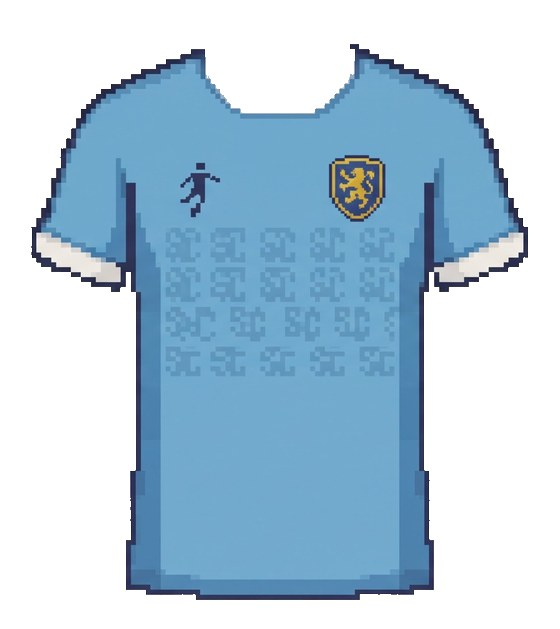
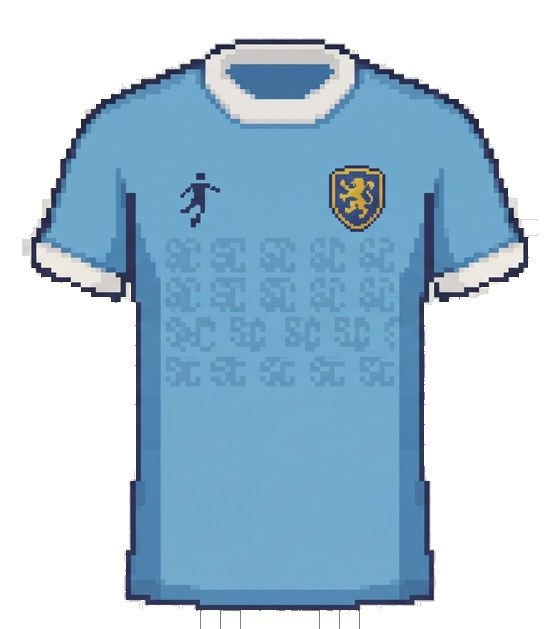
Sklep: bez różowej koszulki, Sky Lions z kołnierzem
Claude-Session: https://claude.ai/code/session_01Y9XNosS9qXxorLv9Jh2D4n

diff --git a/index.html b/index.html
@@ -718,7 +718,7 @@
 <div id="jshop" hidden><div class="side90 l dark"></div><div class="side90 r dark"></div><div class="jbox">
   <div class="jtop"><b class="jtitle">SKLEP · KOSZULKI</b><span class="coin" id="coinJ">0</span><button class="x" id="jx" aria-label="Zamknij">X</button></div>
   <div class="jstage"><button class="jarrow l" id="jprev" aria-label="Poprzednia"></button><img id="jimg" alt="Koszulka"><button class="jarrow r" id="jnext" aria-label="Następna"></button></div>
-  <div class="jbar"><span class="jnum" id="jnum">1/38</span><b class="jname" id="jname"></b><button class="jbuy" id="jbuy">KUP</button></div></div></div>
+  <div class="jbar"><span class="jnum" id="jnum">1/37</span><b class="jname" id="jname"></b><button class="jbuy" id="jbuy">KUP</button></div></div></div>
 <div id="szatnia" hidden><div class="side90 l"></div><div class="side90 r"></div><div class="sbg"></div><div class="sbox"><img src="szatnia_base.jpg?v=2" alt="">
   <div class="sanim" aria-hidden="true"><div class="lamp a" style="left:18.541%;top:12.965%;width:12.739%;height:2.657%"><i></i></div><div class="lamp b" style="left:43.182%;top:12.965%;width:12.799%;height:2.657%"><i></i></div><div class="lamp c" style="left:68.600%;top:13.177%;width:12.380%;height:2.550%"><i></i></div><div class="lev" style="left:74.522%;top:42.402%;width:9.988%;height:21.679%"><div class="aura"></div><div class="orb back"><i style="--a:0deg;--d:0.00s;--r:52%"></i><i style="--a:45deg;--d:-0.37s;--r:60%"></i><i style="--a:90deg;--d:-0.74s;--r:68%"></i><i style="--a:135deg;--d:-1.11s;--r:52%"></i><i style="--a:180deg;--d:-1.48s;--r:60%"></i><i style="--a:225deg;--d:-1.85s;--r:68%"></i><i style="--a:270deg;--d:-2.22s;--r:52%"></i><i style="--a:315deg;--d:-2.59s;--r:60%"></i></div><img src="kid27.png" alt=""><div class="orb front"><i style="--a:0deg;--d:0.00s;--r:52%"></i><i style="--a:45deg;--d:-0.37s;--r:60%"></i><i style="--a:90deg;--d:-0.74s;--r:68%"></i><i style="--a:135deg;--d:-1.11s;--r:52%"></i><i style="--a:180deg;--d:-1.48s;--r:60%"></i><i style="--a:225deg;--d:-1.85s;--r:68%"></i><i style="--a:270deg;--d:-2.22s;--r:52%"></i><i style="--a:315deg;--d:-2.59s;--r:60%"></i></div></div><img class="tie" src="kid10.png" alt="" style="left:36.244%;top:41.445%;width:8.134%;height:23.061%"><img class="sip" src="kid7h.png" alt="" style="left:56.998%;top:40.701%;width:6.220%;height:13.603%"><div class="phone" style="left:19.258%;top:53.879%;width:2.093%;height:1.913%"></div></div>
   <div class="kid" data-i="0" style="left:14.5%;width:12.5%"></div><div class="kid" data-i="1" style="left:34.5%;width:12.5%"></div>
@@ -1044,13 +1044,13 @@
       d.appendChild(b); gr.appendChild(d); }); };
   // the shop is closed for now: a COMING SOON sign instead
   const openShop = () => { $('soon').hidden = false; }; $('soonx').onclick = $('soon').onclick = () => { $('soon').hidden = true; }; window.OPENSHOP = openShop; window.ITEMS = ITEMS;
-  // ---- the jersey shop (38 shirts); for now it opens only with the test code 4545
-  const SHIRTS = [['PIXELS PINK', 300], ['AQUA KNIGHTS', 150], ['SUN JAGUARS', 250], ['CYBER STRIKERS', 350], ['ROYAL GRIFFINS', 250], ['IRON FOREST', 200], ['ETERNAL SAKURA', 300], ['MAYAN JAGUARS', 350], ['MAROON LIONS', 150], ['EMERALD GRIFFINS', 150],
+  // ---- the jersey shop (37 shirts; picture n+2 for entry n, the pink one was taken out); for now it opens only with the test code 4545
+  const SHIRTS = [['AQUA KNIGHTS', 150], ['SUN JAGUARS', 250], ['CYBER STRIKERS', 350], ['ROYAL GRIFFINS', 250], ['IRON FOREST', 200], ['ETERNAL SAKURA', 300], ['MAYAN JAGUARS', 350], ['MAROON LIONS', 150], ['EMERALD GRIFFINS', 150],
     ['BLUE DIAMONDS', 200], ['FOREST LIONS', 150], ['ROYAL GRIFFINS II', 200], ['SKY LIONS', 100], ['PEACOCK PALACE', 300], ['BADGER WORKS', 250], ['AURORA FC', 200], ['SUNRISE STRIKERS', 150], ['RED DRAGONS', 200], ['FOREST GRIFFINS', 150],
     ['BEAR VALLEY', 150], ['UNICORN CITY', 200], ['ROYAL CITY', 200], ['TRI-COLOR FC', 150], ['BLUE ZAG', 200], ['RED ZAG', 250], ['TRI-COLOR UNITED', 150], ['TRI-COLOR ASCENT', 150], ['NEON UNITY', 250], ['TRI-COLOR DYNAMICS', 300],
     ['TRI-COLOR LEAGUE', 150], ['UNITY CROSS', 200], ['TIGER TRIBE', 350], ['PALM CITY', 250], ['CHECK CITY', 150], ['BLACK STARS', 300], ['WHITE LIONS', 200], ['BLACK STARS II', 300]];
   window.JSHOP = (() => { let i = 0; const EN = () => window.LANG === 'en';
-    const id = (k) => 'shirt' + (k + 1), img = (k) => `koszulka_${String(k + 1).padStart(2, '0')}.jpg?v=2`;
+    const id = (k) => 'shirt' + (k + 2), img = (k) => `koszulka_${String(k + 2).padStart(2, '0')}.jpg?v=${k === 12 ? 3 : 2}`;
     const draw = () => { const P = PROG.get(), [name, price] = SHIRTS[i], own = P.owned.includes(id(i)), on = P.shirt === id(i), b = $('jbuy');
       $('jimg').src = img(i); $('jname').textContent = name; $('jnum').textContent = `${i + 1}/${SHIRTS.length}`; $('coinJ').textContent = P.coins;
       b.className = 'jbuy' + (on ? ' eq' : !own && P.coins < price ? ' no' : '');
